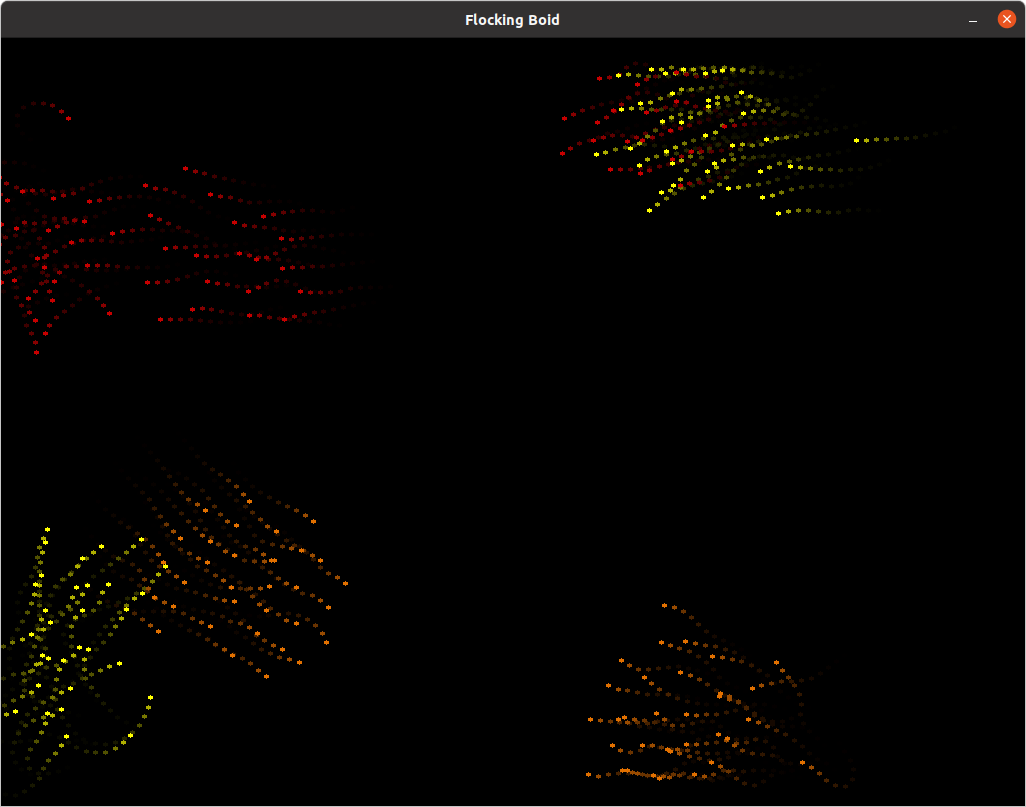
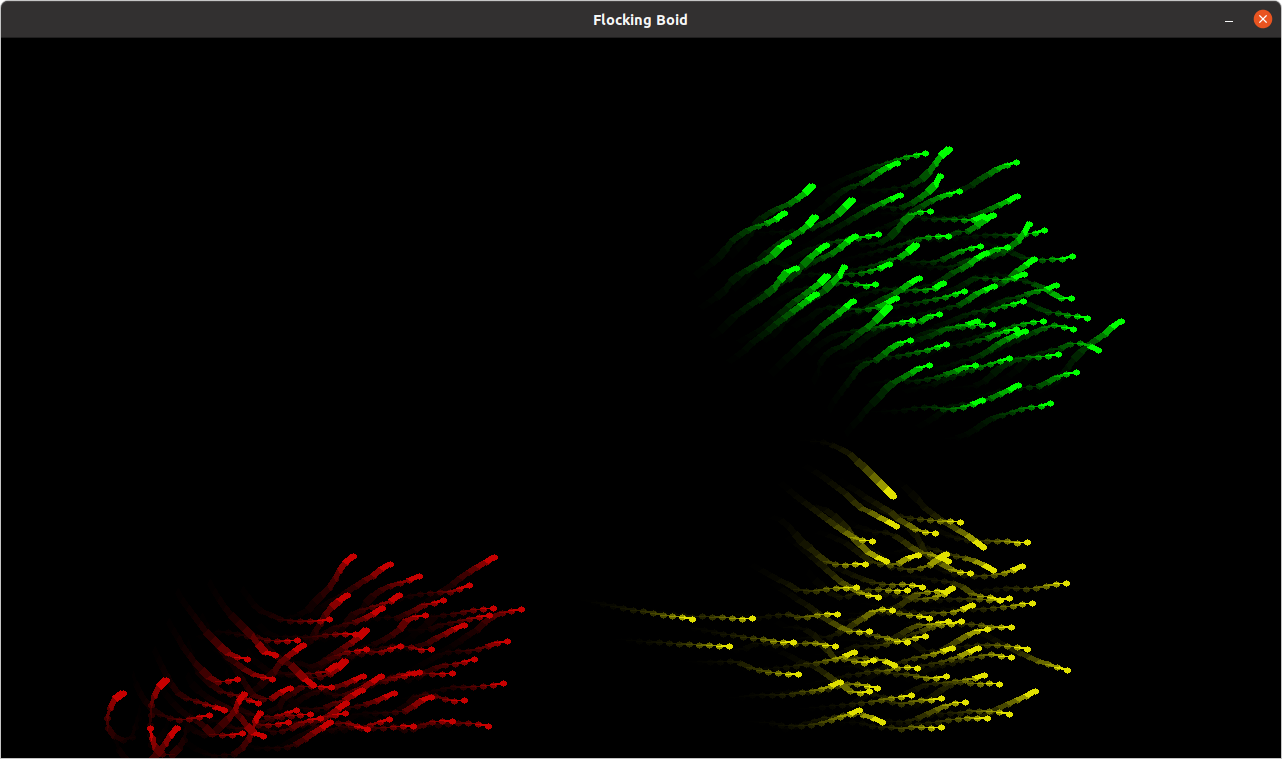
Now boids leave a line trail.

diff --git a/Flocking Boids/utils/SDLHandler.cpp b/Flocking Boids/utils/SDLHandler.cpp
@@ -28,3 +28,28 @@ void SDLHandler::drawCircle( SDL_Surface *screen, int radius, const Point &cente
 	filledCircleRGBA( screen, center.getX(), center.getY(), radius, color.r, color.g, color.b, 255 );
 
 }
+
+void SDLHandler::drawRotatedBox( SDL_Surface *screen, const Point &p1, const Point &p2, int width, const Color &color ) {
+
+	// get angle between these two points
+	double deltaY = p2.getY() - p1.getY();
+	double deltaX = p2.getX() - p1.getX();
+	double angle = atan2( deltaX, deltaY );
+
+	int16_t srcP1X = (int16_t) p1.getX() + width * cos( angle - M_PI / 2 );
+	int16_t srcP1Y = (int16_t) p1.getY() + width * sin( angle - M_PI / 2 );
+	int16_t srcP2X = (int16_t) p1.getX() + width * cos( angle + M_PI / 2 );
+	int16_t srcP2Y = (int16_t) p1.getY() + width * sin( angle + M_PI / 2 );
+
+	int16_t dstP1X = (int16_t) p2.getX() + width * cos( ( M_PI + angle ) - M_PI / 2 );
+	int16_t dstP1Y = (int16_t) p2.getY() + width * sin( ( M_PI + angle ) - M_PI / 2 );
+	int16_t dstP2X = (int16_t) p2.getX() + width * cos( ( M_PI + angle ) + M_PI / 2 );
+	int16_t dstP2Y = (int16_t) p2.getY() + width * sin( ( M_PI + angle ) + M_PI / 2 );
+
+	const int16_t vx[4] = { srcP1X, srcP2X, dstP1X, dstP2X };
+	const int16_t vy[4] = { srcP1Y, srcP2Y, dstP1Y, dstP2Y };
+
+	filledPolygonRGBA( screen, vx, vy, 4, color.r, color.g, color.b, 255 );
+
+}
+

diff --git a/Flocking Boids/utils/flock.cpp b/Flocking Boids/utils/flock.cpp
@@ -33,7 +33,7 @@ void Flock::initializeRandomly( int boidsCount ) {
 		// source: https://en.cppreference.com/w/cpp/numeric/random/rand
 		double xRandom = std::rand() / ( ( RAND_MAX + 1u ) / this->monitor->screen->w );
 		double yRandom = std::rand() / ( ( RAND_MAX + 1u ) / this->monitor->screen->h );
-		boid.location = Point( xRandom, yRandom );
+		boid.prevLocation = boid.location = Point( xRandom, yRandom );
 	}
 
 }
@@ -56,6 +56,7 @@ void Flock::moveBoids() {
 
 		limitVelocity( boid );
 
+		boid.prevLocation = boid.location;
 		boid.location = { boid.location.x + boid.velocity[0], boid.location.y + boid.velocity[1] };
 	}
 

diff --git a/Flocking Boids/utils/flockingMonitor.cpp b/Flocking Boids/utils/flockingMonitor.cpp
@@ -33,8 +33,10 @@ void FlockingMonitor::drawBoids( Flock * flock ) {
 
 	boxRGBA( screen, 0, 0, screen->w, screen->h, 0, 0, 0, 30 );
 	//SDL_FillRect( screen, NULL, 0 );
-	for ( auto &i : flock->boids )
-		SDLHandler::drawCircle( screen, 2, i.location, flock->color );
+	for ( auto &i : flock->boids ) {
+		SDLHandler::drawRotatedBox( screen, i.prevLocation, i.location, 3, flock->color );
+		SDLHandler::drawCircle( screen, 3, i.location, flock->color );
+	}
 
 }
 

diff --git a/Flocking Boids/utils/SDLHandler.h b/Flocking Boids/utils/SDLHandler.h
@@ -4,6 +4,7 @@
 
 #include <iostream>
 #include <string>
+#include <math.h>
 
 #include "SDL/SDL.h"
 #include "SDL/SDL_gfxPrimitives.h"
@@ -22,6 +23,7 @@ class SDLHandler {
 		static SDL_Surface *loadIMG( std::string );
 		
 		static void drawCircle( SDL_Surface *, int, const Point &, const Color & );
+		static void drawRotatedBox( SDL_Surface *, const Point &, const Point &, int, const Color & );
 
 };
 

diff --git a/Flocking Boids/utils/boid.h b/Flocking Boids/utils/boid.h
@@ -21,6 +21,7 @@ class Boid {
 
 		std::array<double, 2> velocity;
 		Point location;
+		Point prevLocation;
 
 	public:
 
